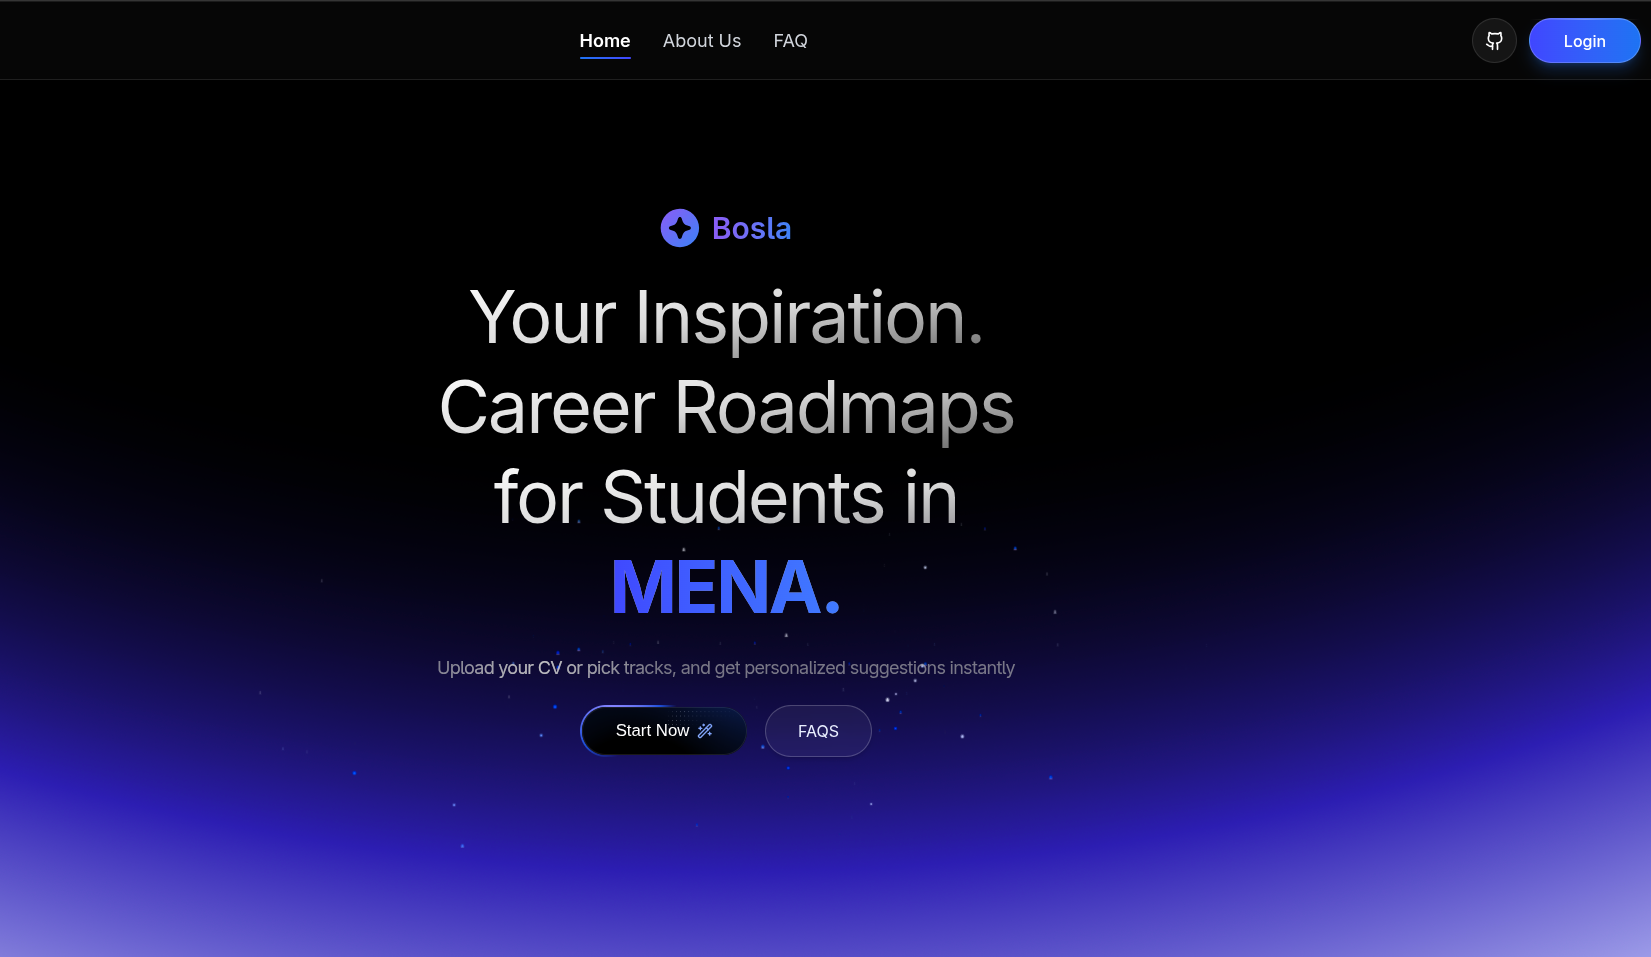
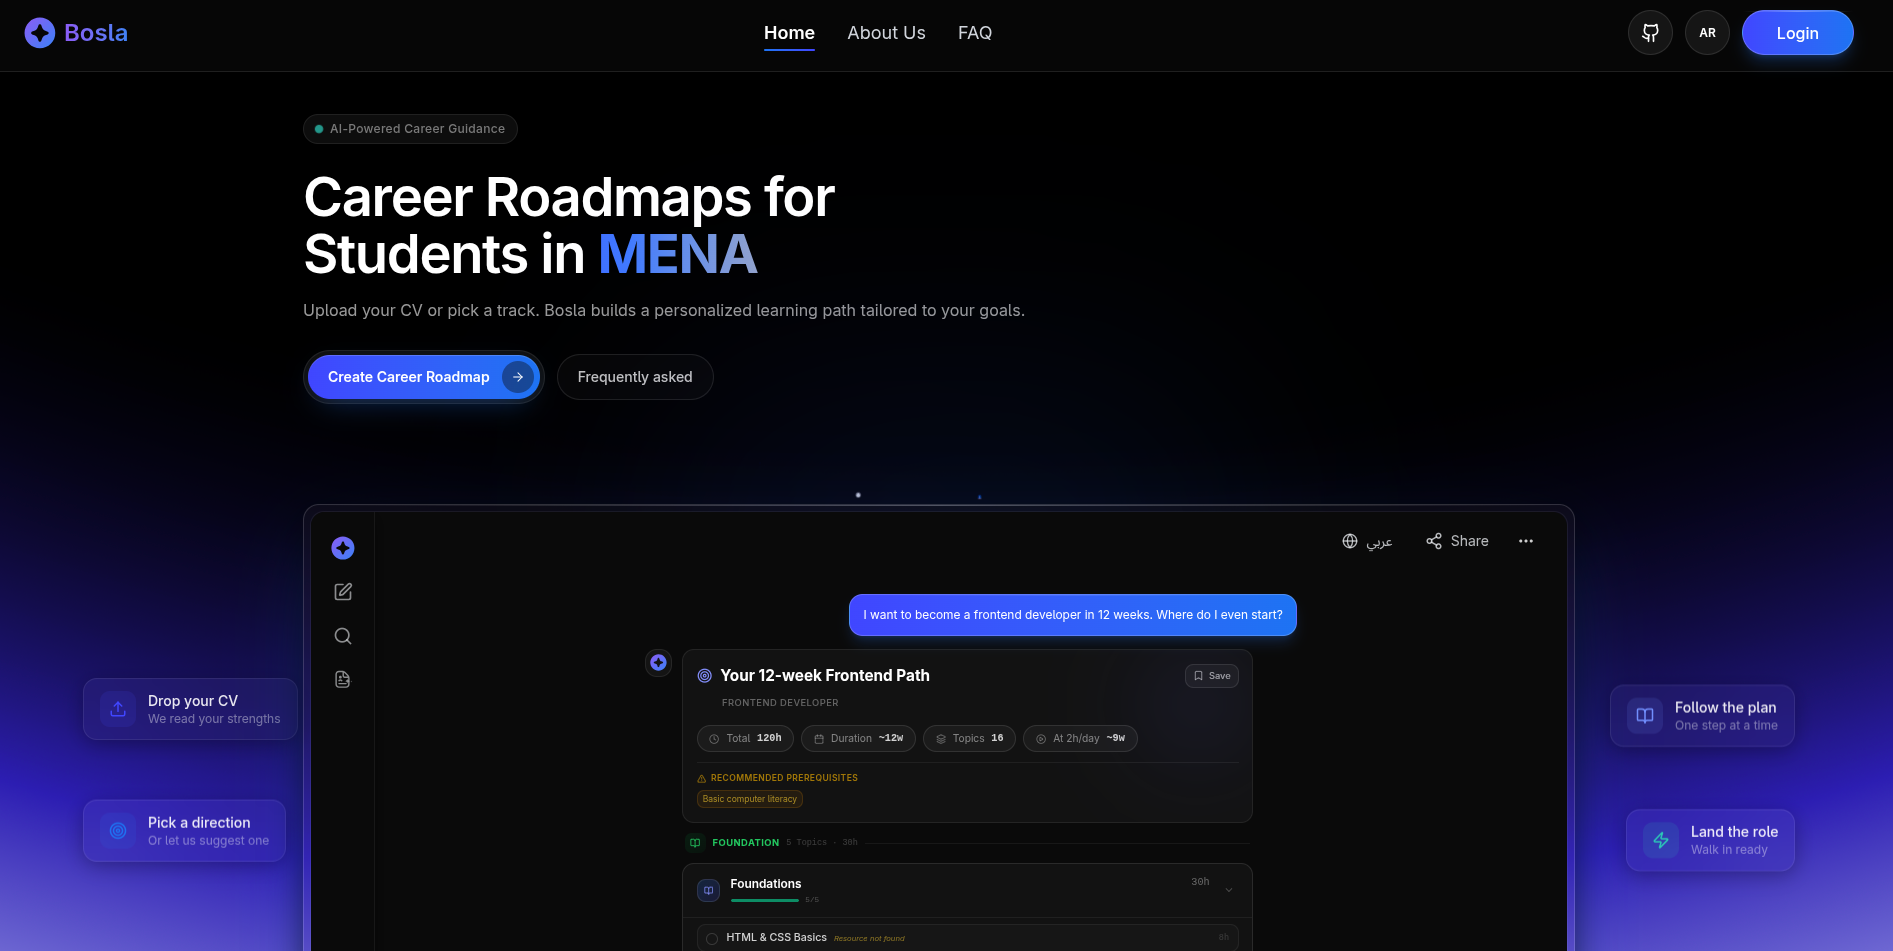
fix date

diff --git a/src/assets/data.ts b/src/assets/data.ts
@@ -10,6 +10,8 @@ export const NAV_ITEMS = [
 ] as const;
 
 export const TYPING_WORDS = ["Fast Mobile Apps", "Smooth Web UIs"];
+let restMonths=new Date().getMonth() - new Date("2025-02-01").getMonth()
+let restYears=new Date().getFullYear() - new Date("2025-02-01").getFullYear();
 
 export const HERO_BADGES = [
   "B.Sc. Information Technology",
@@ -126,7 +128,7 @@ export const PROJECTS = [
       "AI Integration",
     ],
     featured: true,
-    status: "in-progress" as const,
+    status: "featured" as const,
     image: ASSETS.bosla,
     github: "not available",
     demo: "https://front.bosla.almiraj.xyz/",
@@ -309,7 +311,7 @@ export const EXPERIENCES = [
     role: "Frontend Developer",
     company: "Wladet Helm",
     period: "Feb 2025 -- Present",
-    duration: "1 yr 2 mo",
+    duration: `${restYears} yr ${restMonths} mo `,
     type: "Full-time",
     description: [
       "Collaborating with cross-functional teams to architect and develop a scalable, high-performance web application.",